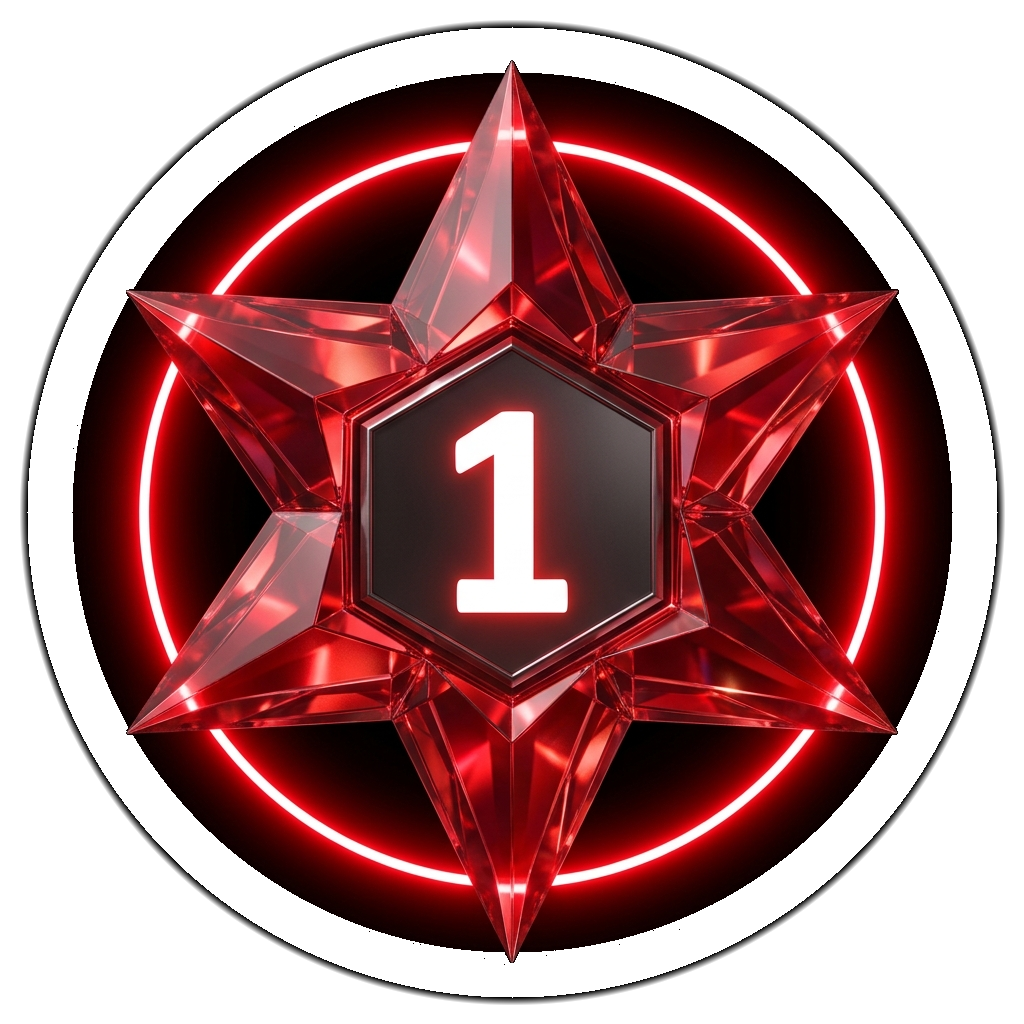
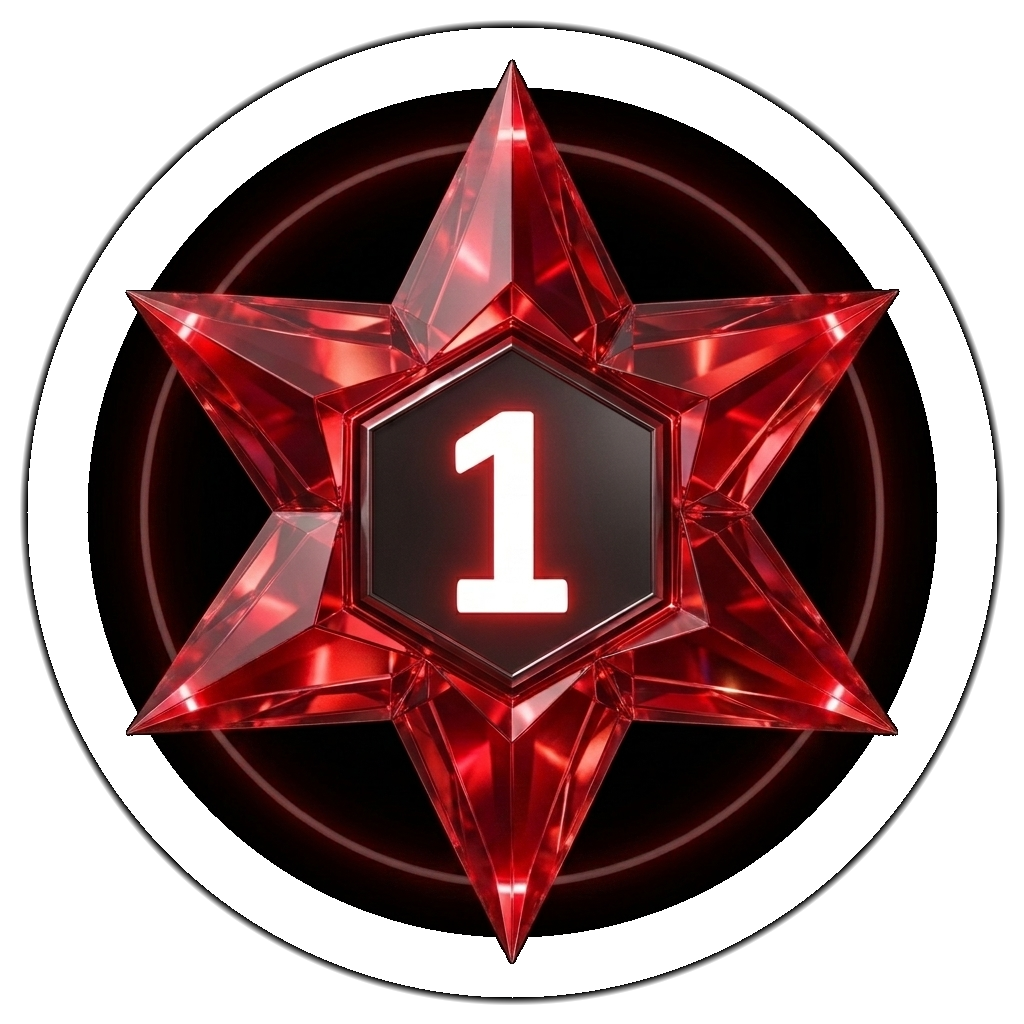
v1.67.0 : Generated soft ambient halo FC1 test badge leaving FC2-FC10 untouched

Changed region(s): [[0.0625, 0.0625, 0.9375, 0.9375]]

diff --git a/main.js b/main.js
@@ -105,7 +105,7 @@ window.getFurnaceIconHtml = (level, size = 48) => {
        10: 'rgba(255,215,0,0.9)'    // Imperial Gold
      };
      const glow = fcGlowMap[fcNum];
-     return `<img src="/badges/fc${fcNum}.png?v=1.66.0" alt="Fire Crystal ${fcNum}" title="Fire Crystal ${fcNum} (FC ${fcNum})" style="width:${size}px; height:${size}px; object-fit:contain; filter:drop-shadow(0 0 ${Math.max(6, Math.round(size/3.5))}px ${glow}); vertical-align:middle; transition:transform 0.2s;" onmouseover="this.style.transform='scale(1.15)'" onmouseout="this.style.transform='scale(1)'" loading="lazy">`;
+     return `<img src="/badges/fc${fcNum}.png?v=1.67.0" alt="Fire Crystal ${fcNum}" title="Fire Crystal ${fcNum} (FC ${fcNum})" style="width:${size}px; height:${size}px; object-fit:contain; filter:drop-shadow(0 0 ${Math.max(6, Math.round(size/3.5))}px ${glow}); vertical-align:middle; transition:transform 0.2s;" onmouseover="this.style.transform='scale(1.15)'" onmouseout="this.style.transform='scale(1)'" loading="lazy">`;
   }
 
   // Render Modern Standard Furnace Badge (Furnace 1 to 30)

diff --git a/CHANGELOG.md b/CHANGELOG.md
@@ -1,5 +1,13 @@
 # CHANGELOG
 
+## [1.67.0] - 2026-08-12
+### AI-Generated FC1 Test Badge with Soft Subtle Ambient Halo
+- **💎 Single FC1 Test Badge Update**:
+  - Tested Option 3 specifically on `fc1.png` only (leaving FC2–FC10 untouched as requested).
+  - Created a brand new 3D ruby Fire Crystal star gem where the 3D crystal facets, metallic center texture, and glowing number 1 pop forward with maximum brilliance, while the background neon halo is natively dimmed into a soft ambient line.
+- **🔄 Forced Browser Cache Refresh**:
+  - Appended version cache-buster (`?v=1.67.0`) in `window.getFurnaceIconHtml`.
+
 ## [1.66.0] - 2026-08-11
 ### Smooth Continuous Halo Ring 3D Fire Crystal Star Badges
 - **✨ Clean Continuous Halo Ring Restoration**:
